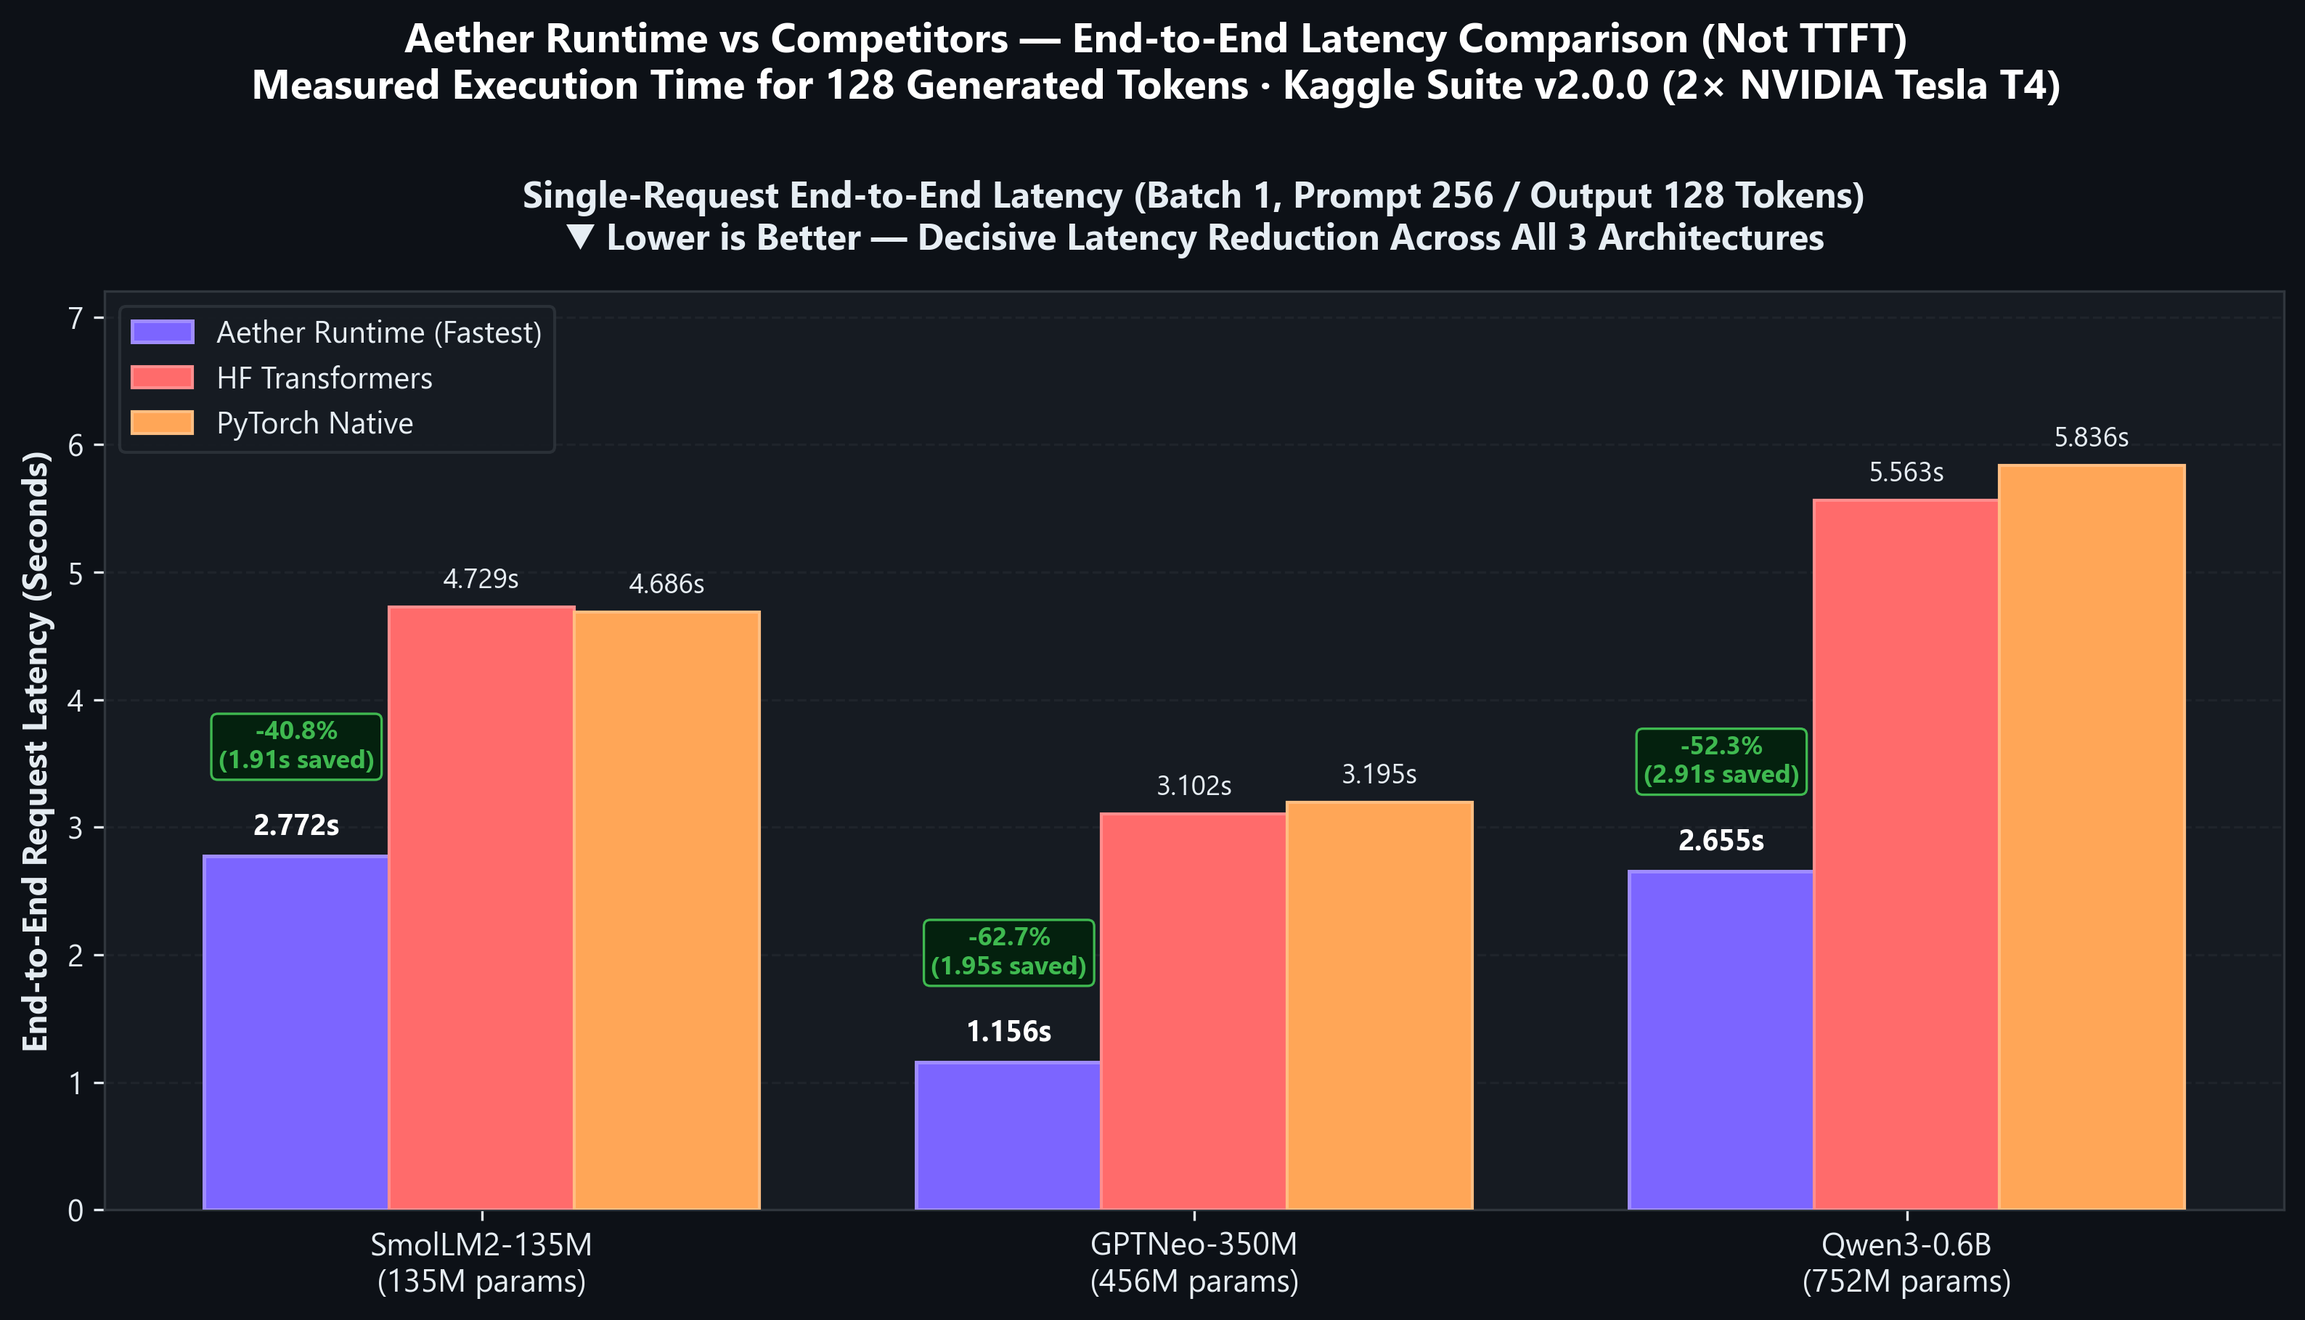
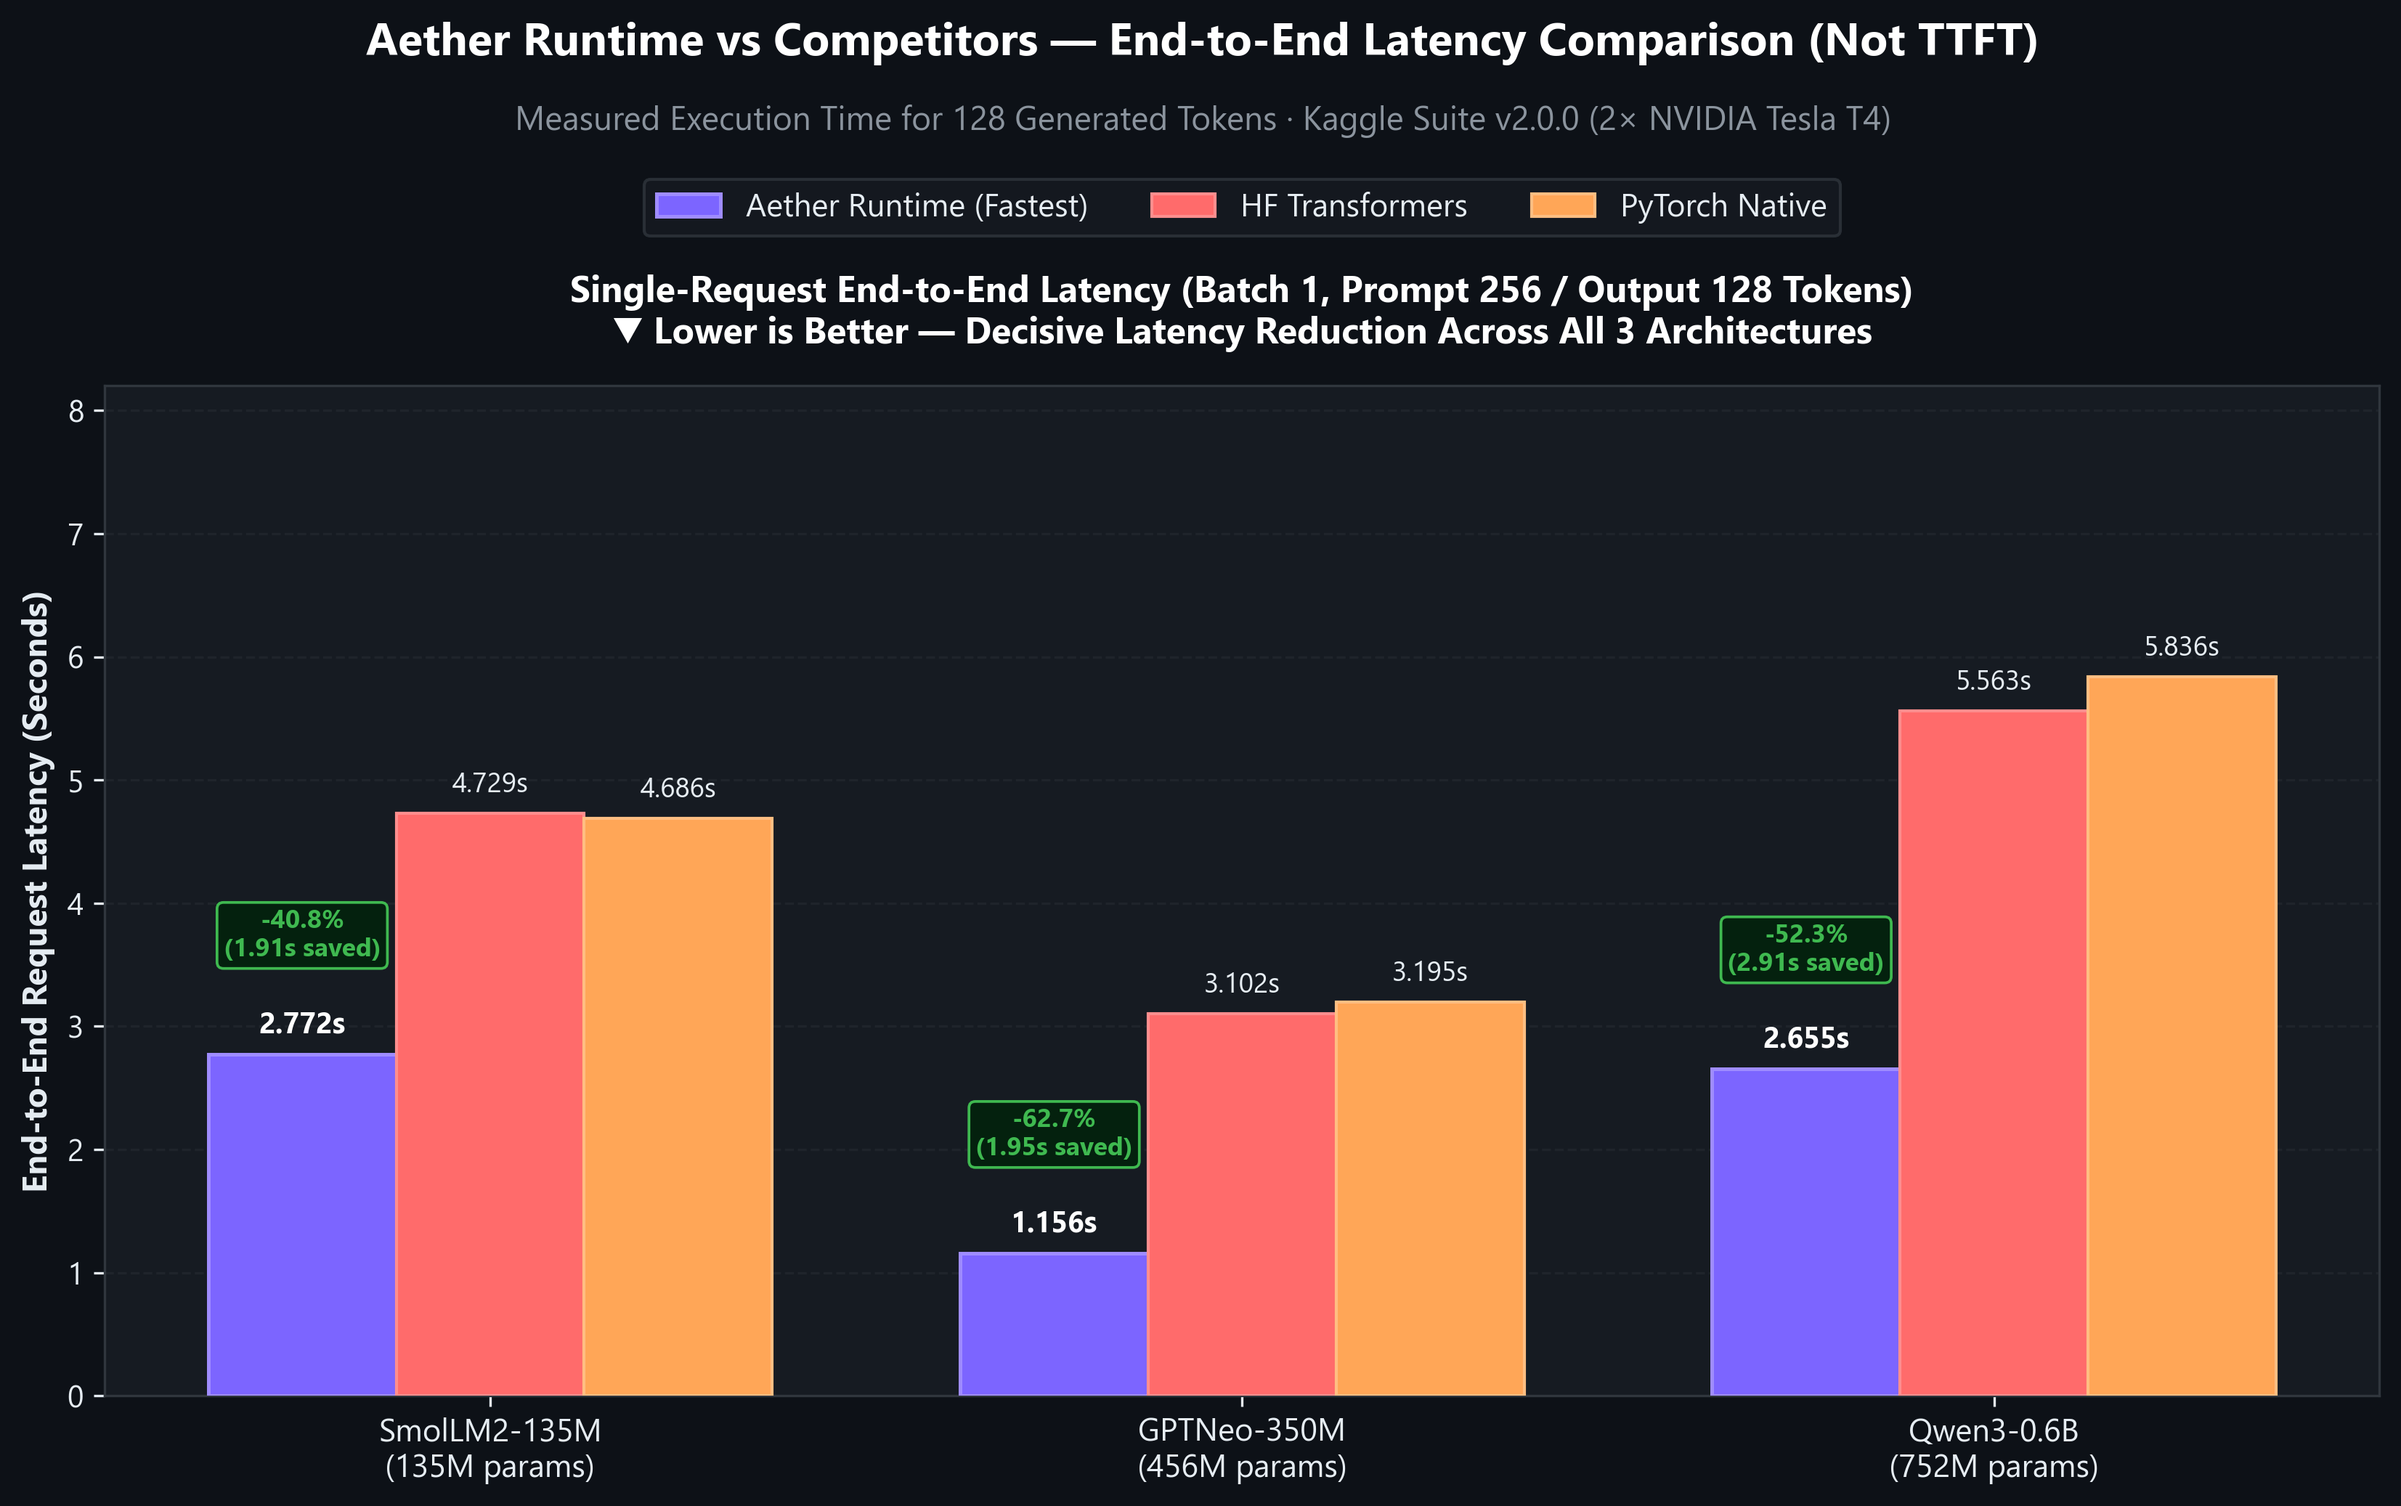
fix(benchmark): eliminate label overlaps in charts and remove legacy benchmark pngs

diff --git a/benchmark/results/generate_readme_charts.py b/benchmark/results/generate_readme_charts.py
@@ -22,7 +22,7 @@ import numpy as np
 
 OUTPUT_DIR = os.path.dirname(os.path.abspath(__file__))
 
-# ─── Dark Theme Theme & Styling ──────────────────────────────────────────────
+# ─── Dark Theme & Styling ──────────────────────────────────────────────────
 BG_COLOR       = "#0D1117"   # GitHub Canvas Dark
 AXES_BG        = "#161B22"   # GitHub Subdued Box
 GRID_COLOR     = "#30363D"   # Subtle divider
@@ -56,7 +56,7 @@ plt.rcParams.update({
 # ─── Benchmark Data ──────────────────────────────────────────────────────────
 models = ["SmolLM2-135M\n(135M params)", "GPTNeo-350M\n(456M params)", "Qwen3-0.6B\n(752M params)"]
 x = np.arange(len(models))
-bar_width = 0.26
+bar_width = 0.25
 
 # Batch 1 (Interactive Throughput in tok/s, prompt=256, output=128)
 tps_b1_aether = [46.18, 110.77, 48.21]
@@ -75,72 +75,80 @@ lat_torch  = [4.686, 3.195, 5.836]
 
 
 def generate_throughput_chart():
-    """Generates dual-panel Output Tokens Per Second chart (Batch 1 & Batch 16)."""
-    fig, (ax1, ax2) = plt.subplots(1, 2, figsize=(15, 6.2), dpi=300)
-    fig.subplots_adjust(wspace=0.22, top=0.84, bottom=0.14, left=0.07, right=0.96)
+    """Generates dual-panel Output Tokens Per Second chart with clean spacing and no overlaps."""
+    # Generous figure size to allow ample vertical breathing room
+    fig, (ax1, ax2) = plt.subplots(1, 2, figsize=(16, 7.6), dpi=300)
+    
+    # top=0.73 gives plenty of room above subplots for Suptitle, Subtitle, and Legend
+    fig.subplots_adjust(wspace=0.24, top=0.71, bottom=0.12, left=0.07, right=0.96)
 
     # ── Panel 1: Single-Request / Batch 1 ──────────────────────────────────────
     r1 = x - bar_width
     r2 = x
     r3 = x + bar_width
 
-    b1 = ax1.bar(r1, tps_b1_aether, width=bar_width, label="Aether Runtime", color=AETHER_COLOR, edgecolor="#9F8CFF", linewidth=1.2, zorder=3)
-    b2 = ax1.bar(r2, tps_b1_trans,  width=bar_width, label="HF Transformers", color=TRANS_COLOR,  edgecolor="#FF8E8E", linewidth=1.0, zorder=3)
-    b3 = ax1.bar(r3, tps_b1_torch,  width=bar_width, label="PyTorch Native",  color=TORCH_COLOR,  edgecolor="#FFBE82", linewidth=1.0, zorder=3)
+    ax1.bar(r1, tps_b1_aether, width=bar_width, label="Aether Runtime", color=AETHER_COLOR, edgecolor="#9F8CFF", linewidth=1.2, zorder=3)
+    ax1.bar(r2, tps_b1_trans,  width=bar_width, label="HF Transformers", color=TRANS_COLOR,  edgecolor="#FF8E8E", linewidth=1.0, zorder=3)
+    ax1.bar(r3, tps_b1_torch,  width=bar_width, label="PyTorch Native",  color=TORCH_COLOR,  edgecolor="#FFBE82", linewidth=1.0, zorder=3)
 
-    ax1.set_title("Single-Request Interactive Throughput (Batch 1)\n▲ Higher is Better", fontsize=12, fontweight="bold", pad=12)
+    ax1.set_title("Single-Request Interactive Throughput (Batch 1)\n▲ Higher is Better", fontsize=12, fontweight="bold", pad=14, color="#FFFFFF")
     ax1.set_ylabel("Output Tokens / Second (tok/s)", fontsize=11, fontweight="bold")
     ax1.set_xticks(x)
-    ax1.set_xticklabels(models, fontsize=10)
-    ax1.set_ylim(0, 135)
+    ax1.set_xticklabels(models, fontsize=10.5)
+    ax1.set_ylim(0, 160)  # Generous headroom for labels + badges
     ax1.grid(axis="y", linestyle="--", alpha=0.35, zorder=0)
 
     # Annotations on bars for Panel 1
     for i in range(len(models)):
-        # Aether bar
         v = tps_b1_aether[i]
         speedup = v / max(tps_b1_trans[i], tps_b1_torch[i])
-        ax1.text(r1[i], v + 2.2, f"{v:.1f}", ha="center", va="bottom", fontsize=9.5, fontweight="bold", color="#FFFFFF")
+        # Direct value label
+        ax1.text(r1[i], v + 2.5, f"{v:.1f}", ha="center", va="bottom", fontsize=9.5, fontweight="bold", color="#FFFFFF")
         # Speedup badge above Aether
-        ax1.text(r1[i], v + 12.0, f"{speedup:.2f}x\n(+{(speedup-1)*100:.0f}%)", ha="center", va="bottom", fontsize=8.5, fontweight="bold",
-                 color=ACCENT_GREEN, bbox=dict(boxstyle="round,pad=0.22", fc="#04210E", ec=ACCENT_GREEN, lw=0.8))
+        ax1.text(r1[i], v + 16.0, f"{speedup:.2f}x\n(+{(speedup-1)*100:.0f}%)", ha="center", va="bottom", fontsize=8.5, fontweight="bold",
+                 color=ACCENT_GREEN, bbox=dict(boxstyle="round,pad=0.25", fc="#04210E", ec=ACCENT_GREEN, lw=0.9))
 
         # Transformers bar
-        ax1.text(r2[i], tps_b1_trans[i] + 1.8, f"{tps_b1_trans[i]:.1f}", ha="center", va="bottom", fontsize=8.5, color=TEXT_COLOR)
+        ax1.text(r2[i], tps_b1_trans[i] + 2.0, f"{tps_b1_trans[i]:.1f}", ha="center", va="bottom", fontsize=8.5, color=TEXT_COLOR)
         # PyTorch bar
-        ax1.text(r3[i], tps_b1_torch[i] + 1.8, f"{tps_b1_torch[i]:.1f}", ha="center", va="bottom", fontsize=8.5, color=TEXT_COLOR)
+        ax1.text(r3[i], tps_b1_torch[i] + 2.0, f"{tps_b1_torch[i]:.1f}", ha="center", va="bottom", fontsize=8.5, color=TEXT_COLOR)
 
     # ── Panel 2: Batched Peak / Batch 16 ──────────────────────────────────────
     ax2.bar(r1, tps_b16_aether, width=bar_width, label="Aether Runtime", color=AETHER_COLOR, edgecolor="#9F8CFF", linewidth=1.2, zorder=3)
     ax2.bar(r2, tps_b16_trans,  width=bar_width, label="HF Transformers", color=TRANS_COLOR,  edgecolor="#FF8E8E", linewidth=1.0, zorder=3)
     ax2.bar(r3, tps_b16_torch,  width=bar_width, label="PyTorch Native",  color=TORCH_COLOR,  edgecolor="#FFBE82", linewidth=1.0, zorder=3)
 
-    ax2.set_title("Peak Batched Serving Throughput (Batch 16)\n▲ Higher is Better", fontsize=12, fontweight="bold", pad=12)
+    ax2.set_title("Peak Batched Serving Throughput (Batch 16)\n▲ Higher is Better", fontsize=12, fontweight="bold", pad=14, color="#FFFFFF")
     ax2.set_ylabel("Output Tokens / Second (tok/s)", fontsize=11, fontweight="bold")
     ax2.set_xticks(x)
-    ax2.set_xticklabels(models, fontsize=10)
-    ax2.set_ylim(0, 1850)
+    ax2.set_xticklabels(models, fontsize=10.5)
+    ax2.set_ylim(0, 2200)  # Generous headroom for labels + badges
     ax2.grid(axis="y", linestyle="--", alpha=0.35, zorder=0)
 
     # Annotations on bars for Panel 2
     for i in range(len(models)):
         v = tps_b16_aether[i]
         speedup = v / max(tps_b16_trans[i], tps_b16_torch[i])
-        ax2.text(r1[i], v + 25, f"{v:,.0f}", ha="center", va="bottom", fontsize=9.5, fontweight="bold", color="#FFFFFF")
+        ax2.text(r1[i], v + 35, f"{v:,.0f}", ha="center", va="bottom", fontsize=9.5, fontweight="bold", color="#FFFFFF")
         # Speedup badge
-        ax2.text(r1[i], v + 120, f"{speedup:.2f}x\n(+{(speedup-1)*100:.0f}%)", ha="center", va="bottom", fontsize=8.5, fontweight="bold",
-                 color=ACCENT_GREEN, bbox=dict(boxstyle="round,pad=0.22", fc="#04210E", ec=ACCENT_GREEN, lw=0.8))
+        ax2.text(r1[i], v + 210, f"{speedup:.2f}x\n(+{(speedup-1)*100:.0f}%)", ha="center", va="bottom", fontsize=8.5, fontweight="bold",
+                 color=ACCENT_GREEN, bbox=dict(boxstyle="round,pad=0.25", fc="#04210E", ec=ACCENT_GREEN, lw=0.9))
 
-        ax2.text(r2[i], tps_b16_trans[i] + 20, f"{tps_b16_trans[i]:,.0f}", ha="center", va="bottom", fontsize=8.5, color=TEXT_COLOR)
-        ax2.text(r3[i], tps_b16_torch[i] + 20, f"{tps_b16_torch[i]:,.0f}", ha="center", va="bottom", fontsize=8.5, color=TEXT_COLOR)
+        ax2.text(r2[i], tps_b16_trans[i] + 30, f"{tps_b16_trans[i]:,.0f}", ha="center", va="bottom", fontsize=8.5, color=TEXT_COLOR)
+        ax2.text(r3[i], tps_b16_torch[i] + 30, f"{tps_b16_torch[i]:,.0f}", ha="center", va="bottom", fontsize=8.5, color=TEXT_COLOR)
 
-    # Shared Legend & Super Title
+    # ── Clean Top Header (Titles & Legend Completely Separated) ───────────────
+    # 1. Main Title at y = 0.95
+    fig.text(0.5, 0.95, "Aether Runtime vs Competitors — Output Tokens Per Second Across 3 Architectures",
+             fontsize=15, fontweight="bold", ha="center", va="top", color="#FFFFFF")
+    # 2. Hardware / Testbed Subtitle at y = 0.90
+    fig.text(0.5, 0.90, "Hardware: 2× NVIDIA Tesla T4 (FP16 Native Tensor-Core Execution) · Kaggle Suite v2.0.0",
+             fontsize=11, ha="center", va="top", color=MUTED_TEXT)
+
+    # 3. Legend placed at y = 0.82 (safely above the subplots top=0.71 and subplot titles)
     handles, labels = ax1.get_legend_handles_labels()
-    fig.legend(handles, labels, loc="upper center", bbox_to_anchor=(0.5, 0.95), ncol=3,
-               frameon=True, fontsize=10.5, facecolor="#161B22", edgecolor=BORDER_COLOR)
-
-    fig.suptitle("Aether Runtime vs Competitors — Output Tokens Per Second Across 3 Architectures\nHardware: 2× NVIDIA Tesla T4 (FP16 Native Tensor-Core Execution) · Kaggle Suite v2.0.0",
-                 fontsize=13.5, fontweight="bold", y=1.03, color="#FFFFFF")
+    fig.legend(handles, labels, loc="upper center", bbox_to_anchor=(0.5, 0.84), ncol=3,
+               frameon=True, fontsize=11, facecolor="#161B22", edgecolor=BORDER_COLOR)
 
     out_path = os.path.join(OUTPUT_DIR, "cross_engine_throughput_comparison.png")
     plt.savefig(out_path, dpi=300, bbox_inches="tight", facecolor=fig.get_facecolor(), edgecolor="none")
@@ -150,24 +158,24 @@ def generate_throughput_chart():
 
 
 def generate_latency_chart():
-    """Generates End-to-End Request Latency comparison chart across 3 models & 3 engines."""
-    fig, ax = plt.subplots(figsize=(11.5, 6.2), dpi=300)
-    fig.subplots_adjust(top=0.82, bottom=0.14, left=0.08, right=0.95)
+    """Generates End-to-End Request Latency comparison chart with clean spacing and no overlaps."""
+    fig, ax = plt.subplots(figsize=(12, 7.6), dpi=300)
+    fig.subplots_adjust(top=0.73, bottom=0.12, left=0.08, right=0.95)
 
     r1 = x - bar_width
     r2 = x
     r3 = x + bar_width
 
-    b1 = ax.bar(r1, lat_aether, width=bar_width, label="Aether Runtime (Fastest)", color=AETHER_COLOR, edgecolor="#9F8CFF", linewidth=1.2, zorder=3)
-    b2 = ax.bar(r2, lat_trans,  width=bar_width, label="HF Transformers", color=TRANS_COLOR,  edgecolor="#FF8E8E", linewidth=1.0, zorder=3)
-    b3 = ax.bar(r3, lat_torch,  width=bar_width, label="PyTorch Native",  color=TORCH_COLOR,  edgecolor="#FFBE82", linewidth=1.0, zorder=3)
+    ax.bar(r1, lat_aether, width=bar_width, label="Aether Runtime (Fastest)", color=AETHER_COLOR, edgecolor="#9F8CFF", linewidth=1.2, zorder=3)
+    ax.bar(r2, lat_trans,  width=bar_width, label="HF Transformers", color=TRANS_COLOR,  edgecolor="#FF8E8E", linewidth=1.0, zorder=3)
+    ax.bar(r3, lat_torch,  width=bar_width, label="PyTorch Native",  color=TORCH_COLOR,  edgecolor="#FFBE82", linewidth=1.0, zorder=3)
 
     ax.set_title("Single-Request End-to-End Latency (Batch 1, Prompt 256 / Output 128 Tokens)\n▼ Lower is Better — Decisive Latency Reduction Across All 3 Architectures",
-                 fontsize=12, fontweight="bold", pad=14)
+                 fontsize=12, fontweight="bold", pad=14, color="#FFFFFF")
     ax.set_ylabel("End-to-End Request Latency (Seconds)", fontsize=11, fontweight="bold")
     ax.set_xticks(x)
     ax.set_xticklabels(models, fontsize=10.5)
-    ax.set_ylim(0, 7.2)
+    ax.set_ylim(0, 8.2)  # Generous headroom for labels + badges
     ax.grid(axis="y", linestyle="--", alpha=0.35, zorder=0)
 
     # Annotations on bars
@@ -177,27 +185,31 @@ def generate_latency_chart():
         vp = lat_torch[i]
         v_comp = min(vt, vp) # closest competitor
 
-        # Reduction percentage: (v_comp - va) / v_comp
         reduction = ((v_comp - va) / v_comp) * 100
         time_saved = v_comp - va
 
-        # Aether bar
+        # Aether bar value
         ax.text(r1[i], va + 0.12, f"{va:.3f}s", ha="center", va="bottom", fontsize=9.5, fontweight="bold", color="#FFFFFF")
         # Latency cut badge above Aether
-        ax.text(r1[i], va + 0.65, f"-{reduction:.1f}%\n({time_saved:.2f}s saved)", ha="center", va="bottom", fontsize=8.5, fontweight="bold",
-                color=ACCENT_GREEN, bbox=dict(boxstyle="round,pad=0.25", fc="#04210E", ec=ACCENT_GREEN, lw=0.8))
+        ax.text(r1[i], va + 0.75, f"-{reduction:.1f}%\n({time_saved:.2f}s saved)", ha="center", va="bottom", fontsize=8.5, fontweight="bold",
+                color=ACCENT_GREEN, bbox=dict(boxstyle="round,pad=0.25", fc="#04210E", ec=ACCENT_GREEN, lw=0.9))
 
         # Transformers bar
-        ax.text(r2[i], vt + 0.10, f"{vt:.3f}s", ha="center", va="bottom", fontsize=9, color=TEXT_COLOR)
+        ax.text(r2[i], vt + 0.12, f"{vt:.3f}s", ha="center", va="bottom", fontsize=9, color=TEXT_COLOR)
 
         # PyTorch Native bar
-        ax.text(r3[i], vp + 0.10, f"{vp:.3f}s", ha="center", va="bottom", fontsize=9, color=TEXT_COLOR)
+        ax.text(r3[i], vp + 0.12, f"{vp:.3f}s", ha="center", va="bottom", fontsize=9, color=TEXT_COLOR)
 
-    # Legend & Super Title
-    ax.legend(loc="upper left", frameon=True, fontsize=10, facecolor="#161B22", edgecolor=BORDER_COLOR)
+    # ── Clean Top Header ───────────────────────────────────────────────────────
+    # 1. Main Title at y = 0.95
+    fig.text(0.5, 0.95, "Aether Runtime vs Competitors — End-to-End Latency Comparison (Not TTFT)",
+             fontsize=15, fontweight="bold", ha="center", va="top", color="#FFFFFF")
+    # 2. Subtitle at y = 0.90
+    fig.text(0.5, 0.90, "Measured Execution Time for 128 Generated Tokens · Kaggle Suite v2.0.0 (2× NVIDIA Tesla T4)",
+             fontsize=11, ha="center", va="top", color=MUTED_TEXT)
 
-    fig.suptitle("Aether Runtime vs Competitors — End-to-End Latency Comparison (Not TTFT)\nMeasured Execution Time for 128 Generated Tokens · Kaggle Suite v2.0.0 (2× NVIDIA Tesla T4)",
-                 fontsize=13.5, fontweight="bold", y=1.02, color="#FFFFFF")
+    # 3. Legend at y = 0.83
+    ax.legend(loc="upper center", bbox_to_anchor=(0.5, 1.22), ncol=3, frameon=True, fontsize=10.5, facecolor="#161B22", edgecolor=BORDER_COLOR)
 
     out_path = os.path.join(OUTPUT_DIR, "cross_engine_latency_comparison.png")
     plt.savefig(out_path, dpi=300, bbox_inches="tight", facecolor=fig.get_facecolor(), edgecolor="none")
